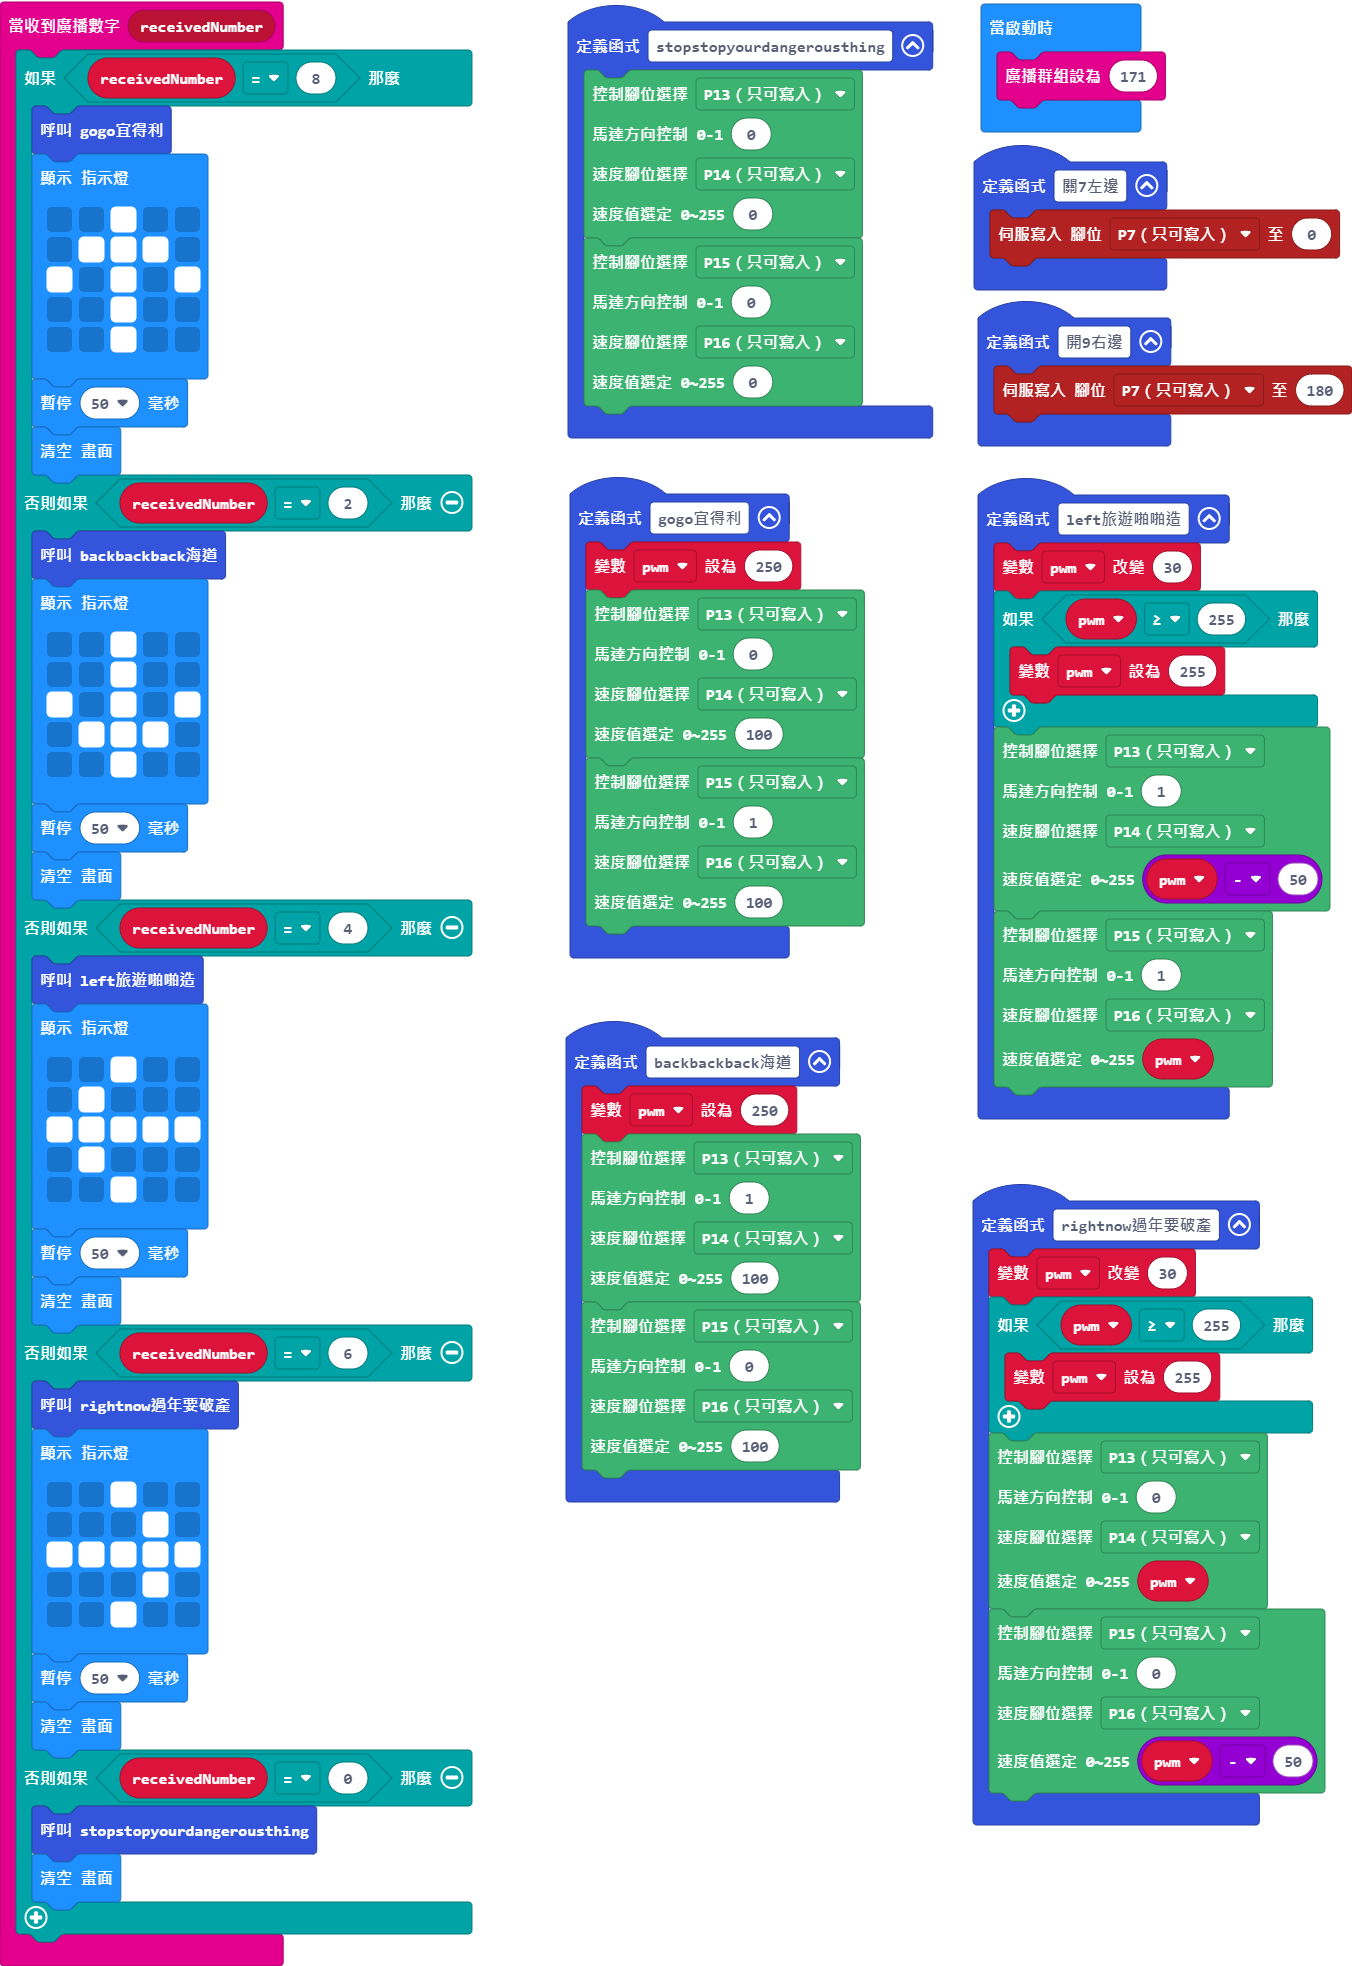
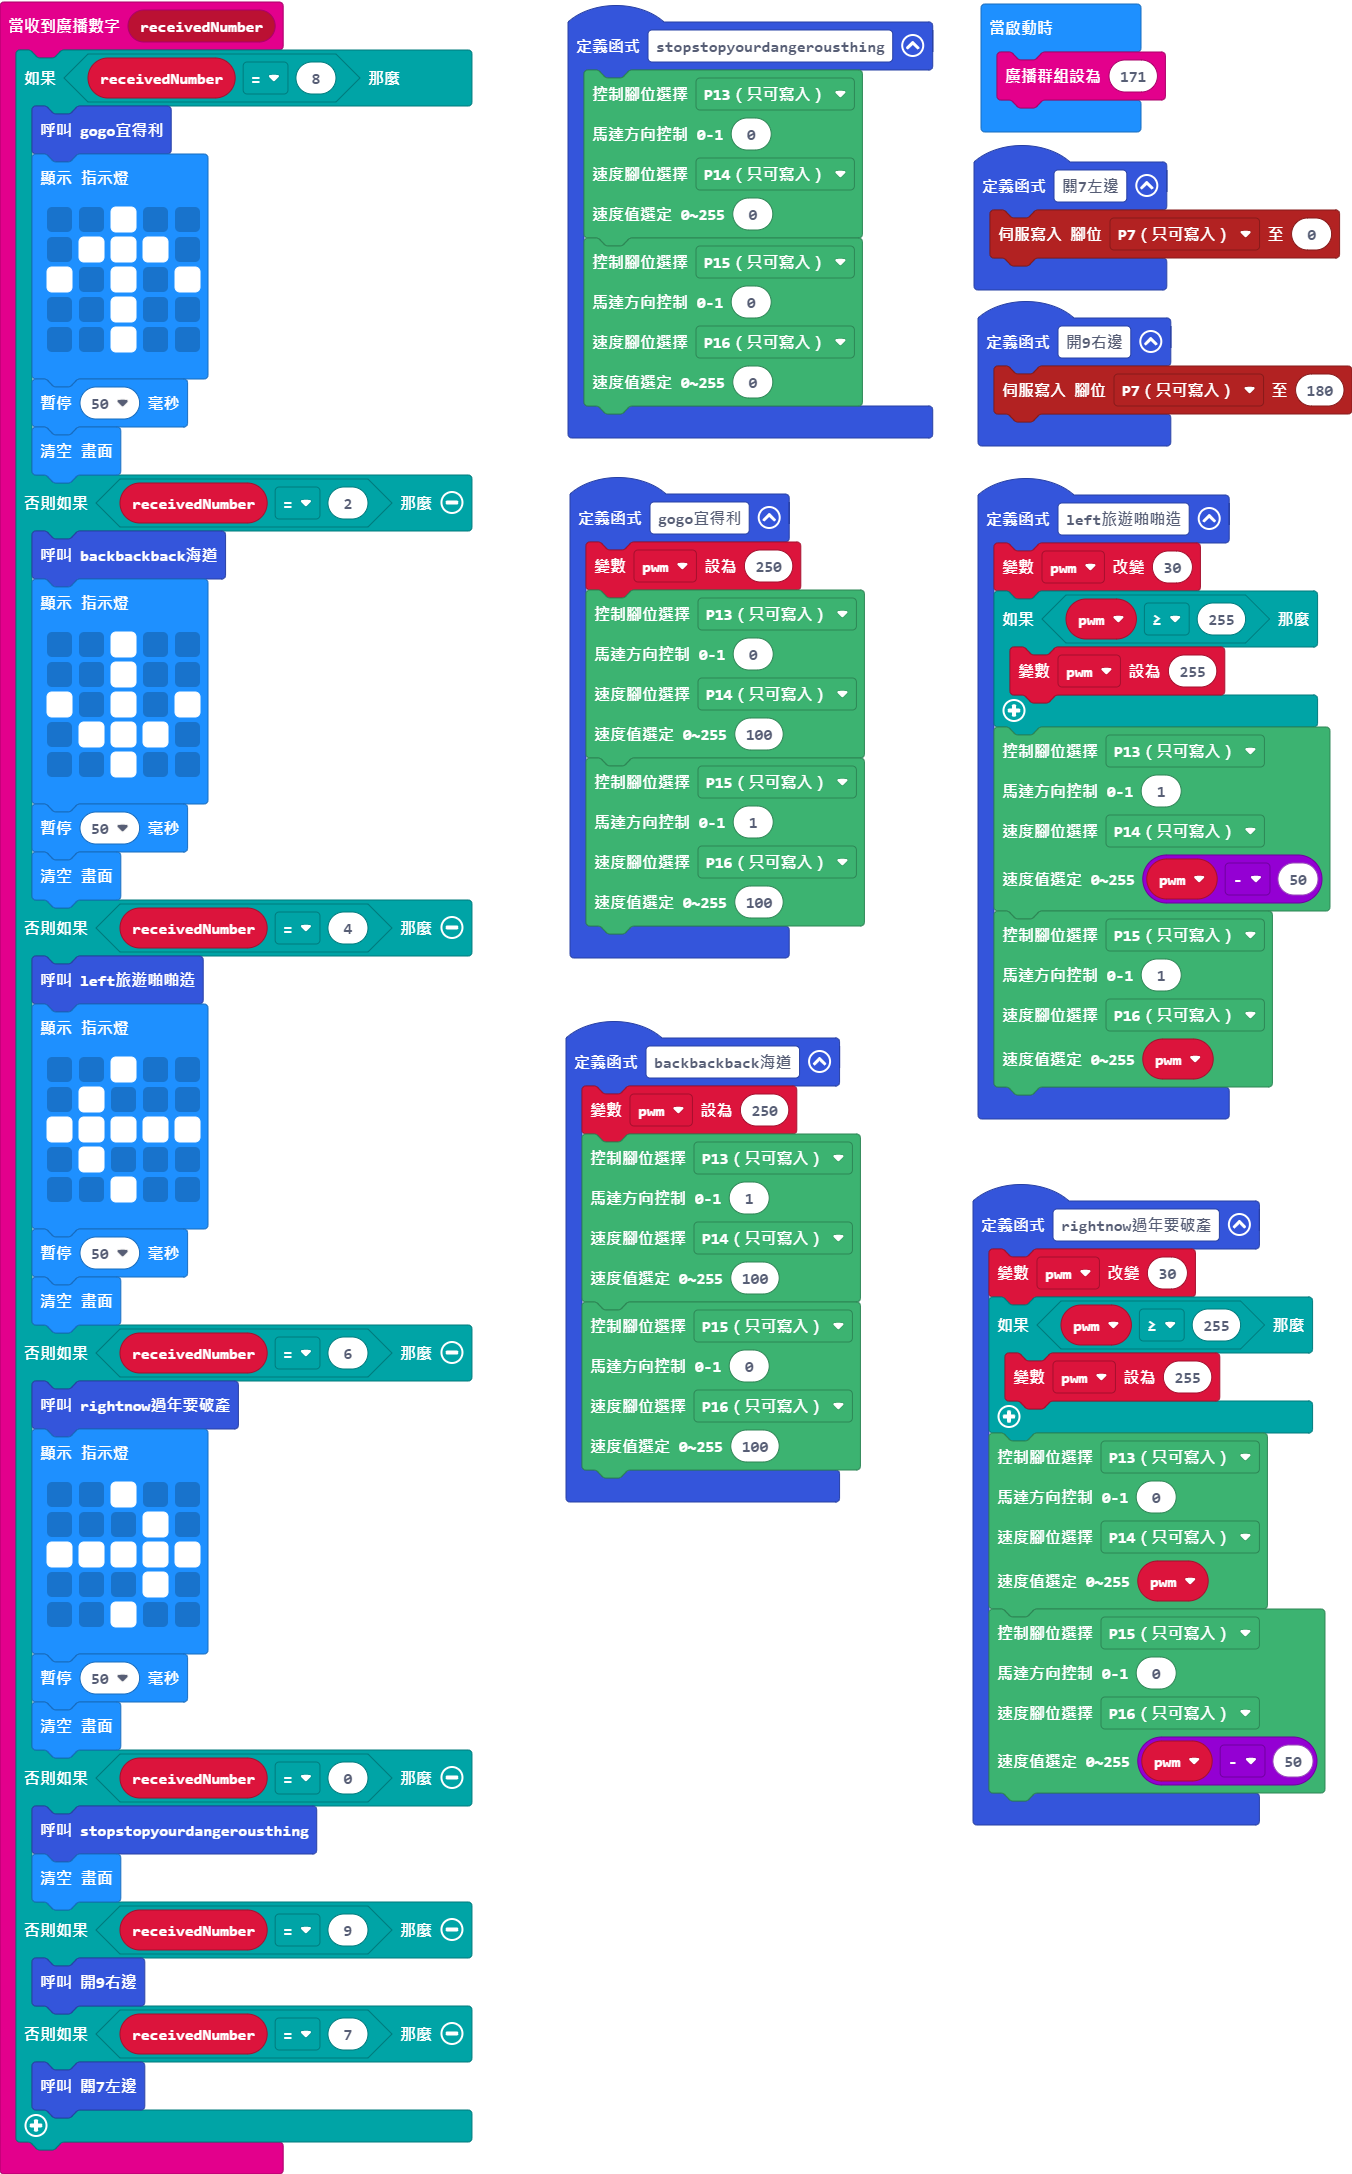
更新 main.blocks, main.ts

diff --git a/main.ts b/main.ts
@@ -61,6 +61,10 @@ radio.onReceivedNumber(function (receivedNumber) {
     } else if (receivedNumber == 0) {
         stopstopyourdangerousthing()
         basic.clearScreen()
+    } else if (receivedNumber == 9) {
+        開9右邊()
+    } else if (receivedNumber == 7) {
+        關7左邊()
     }
 })
 function 開9右邊 () {
